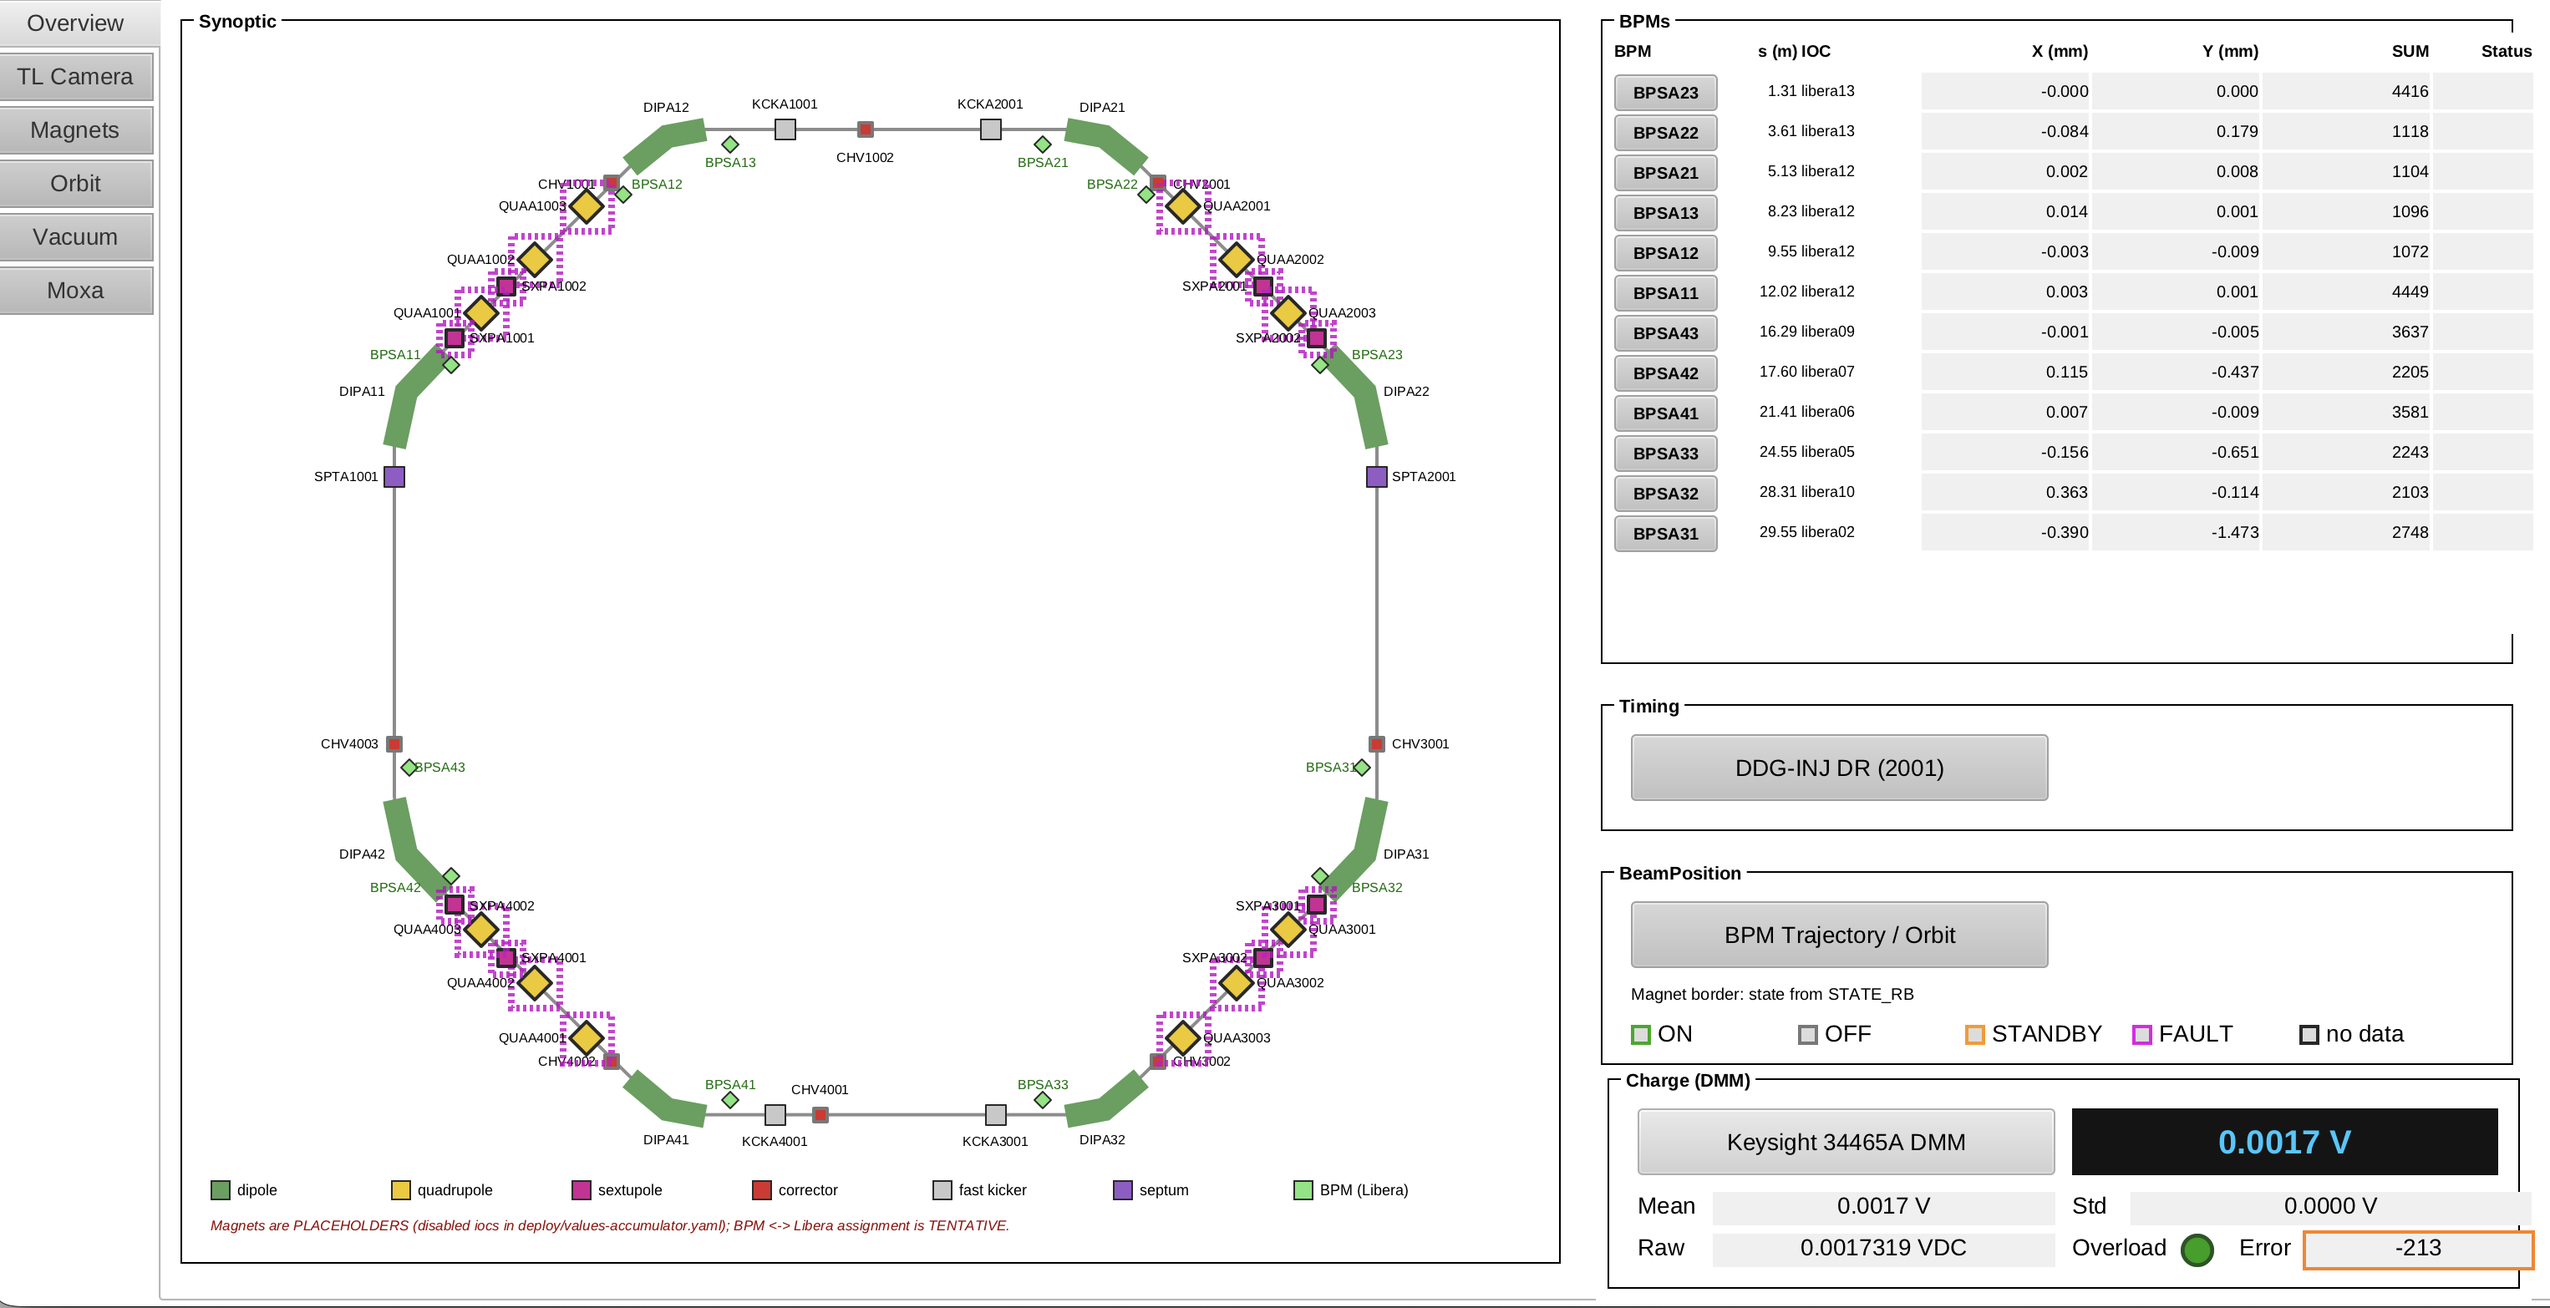
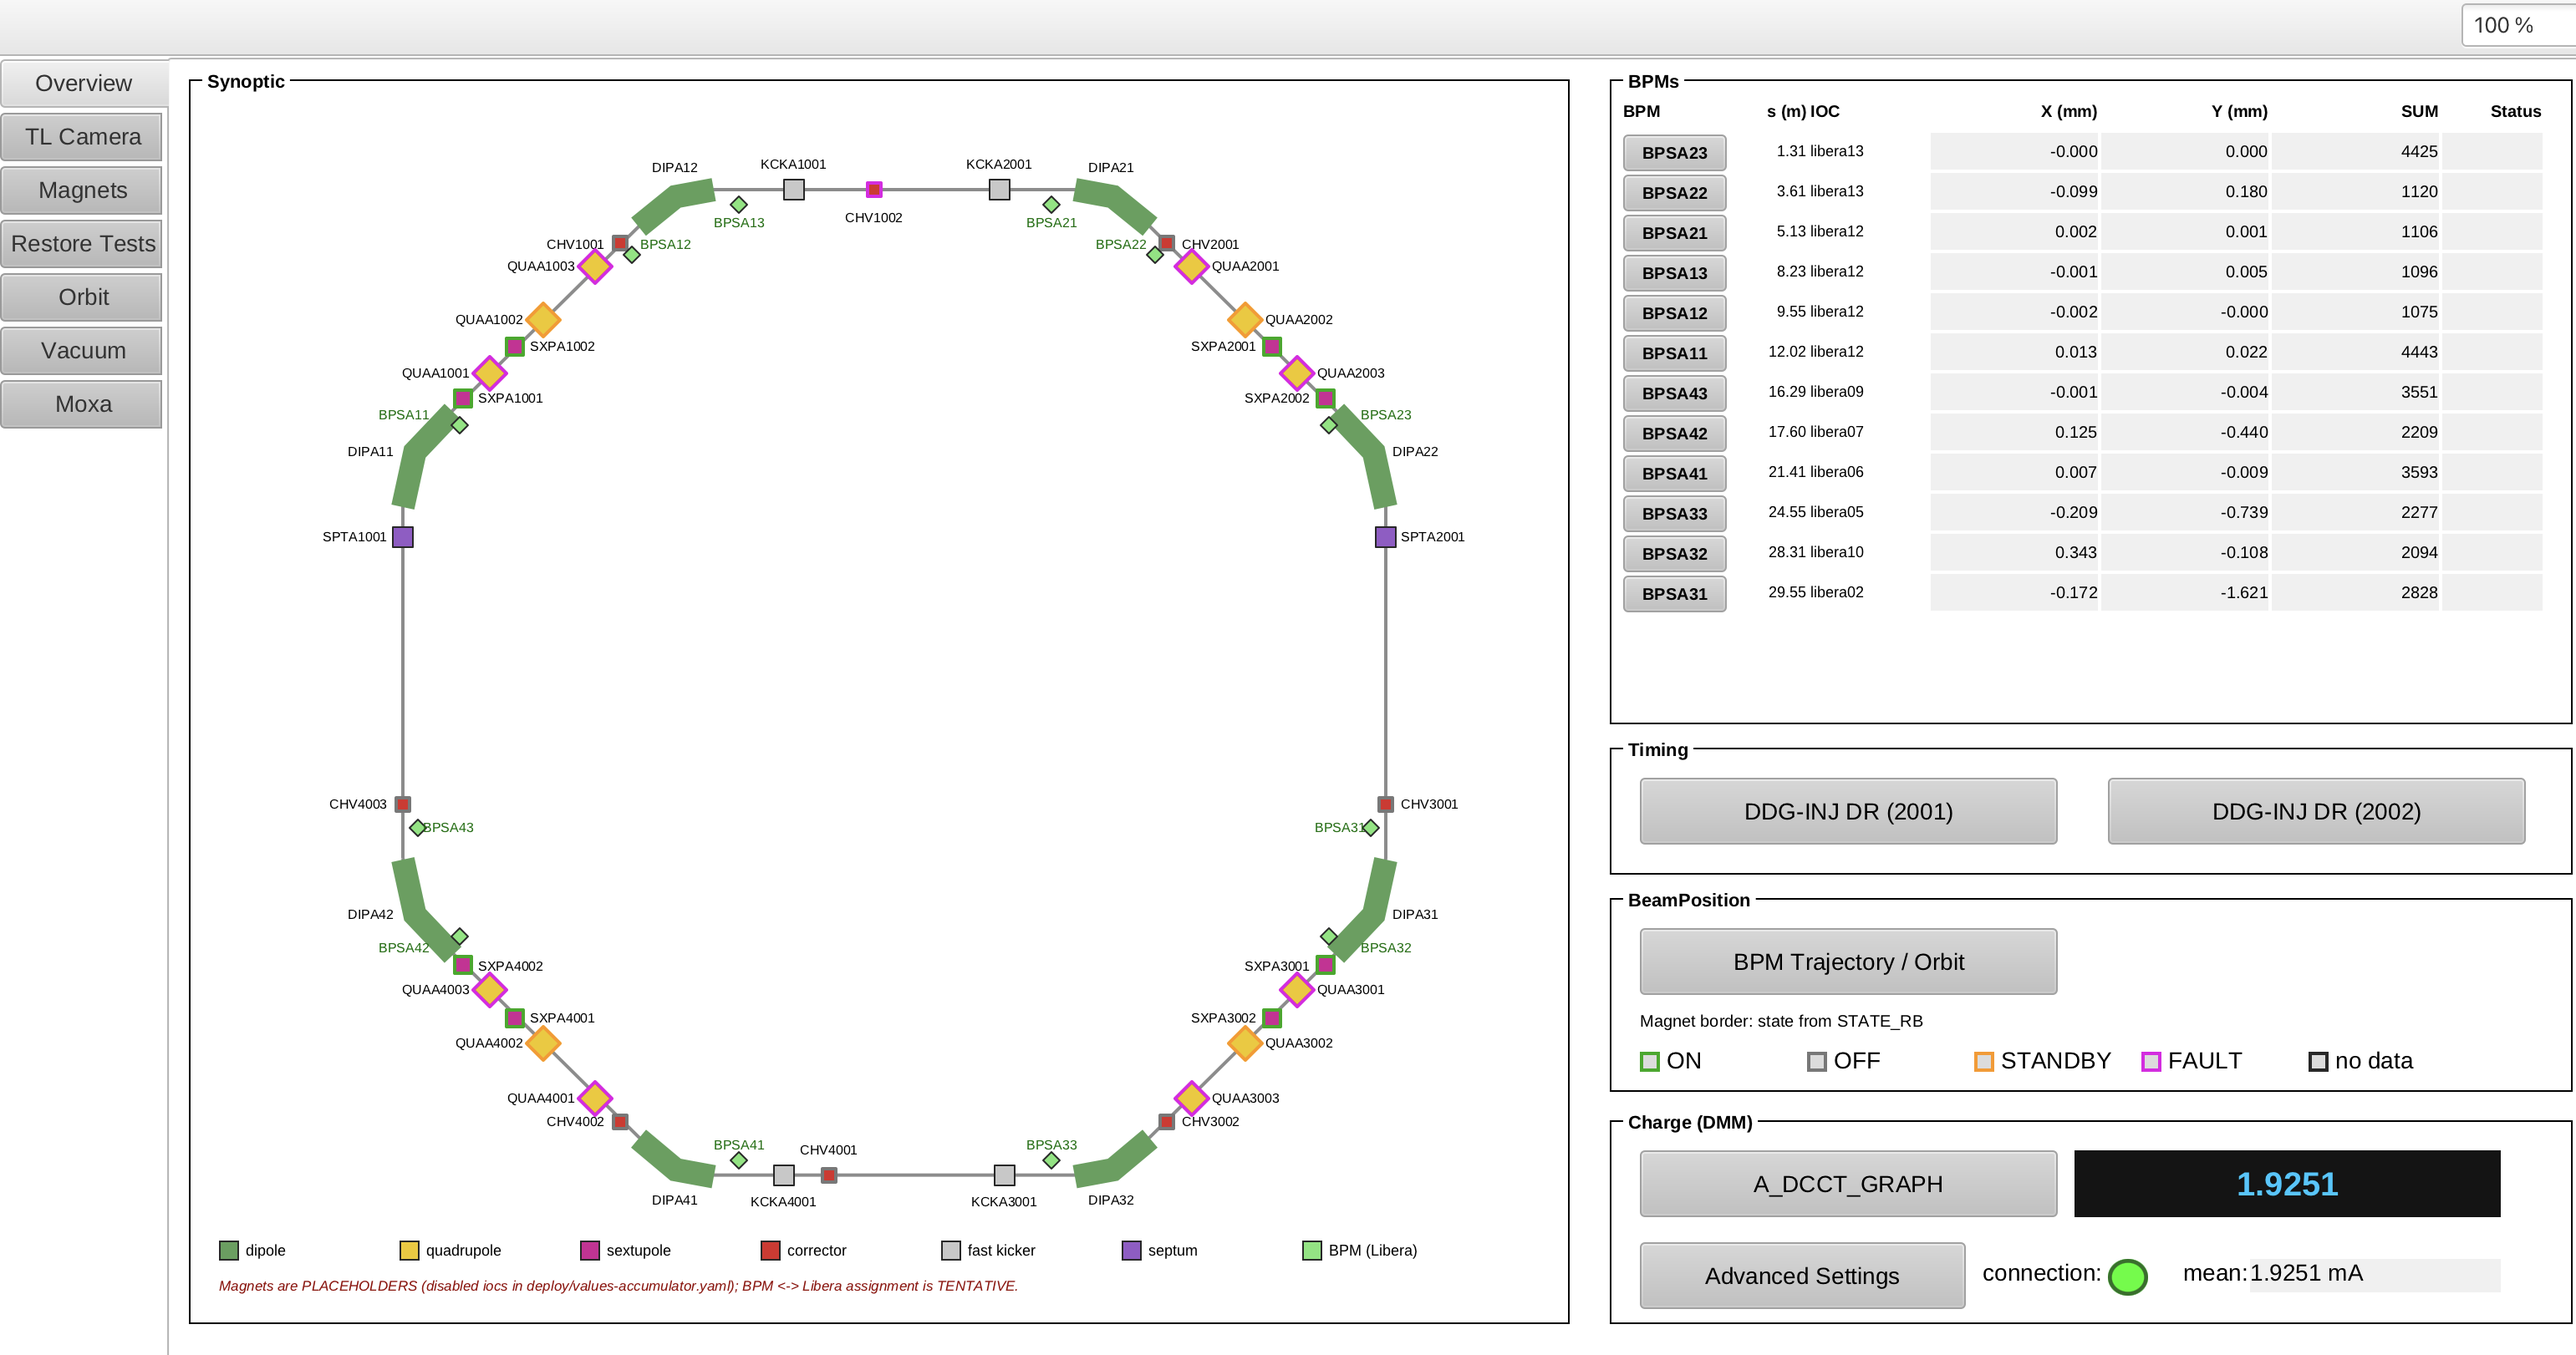
Replace DAFNE ring snapshot with REDD capture

Changed region(s): [[0.0623, 0.5211, 1.0, 1.0], [0.0, 0.0, 1.0, 0.5211], [0.8716, 0.8582, 0.9338, 0.8889]]

diff --git a/index.html b/index.html
@@ -28,7 +28,7 @@
       <div class="lnf-gallery">
         <span class="mini-label" data-i18n="lnfGalleryLabel">LNF SNAPSHOTS</span>
         <div class="lnf-gallery-grid">
-          <figure class="lnf-dafne-card"><div class="lnf-dafne-montage"><a class="lnf-dafne-overview" href="./assets/lnf-dafne-control-overview.webp" target="_blank" rel="noopener"><img src="./assets/lnf-dafne-control-overview.webp" alt="DAΦNE control interface map showing the LINAC, BTF and rings." data-i18n-alt="lnfDafneAlt" loading="lazy" width="2558" height="1362"></a><a class="lnf-dafne-ring" href="./assets/lnf-dafne-ring.png" target="_blank" rel="noopener"><img src="./assets/lnf-dafne-ring.png" alt="DAΦNE accumulator ring control synoptic with beam position monitors and machine status." data-i18n-alt="lnfDafneRingAlt" loading="lazy" width="3052" height="1566"></a></div><figcaption data-i18n="lnfDafneCaption">DAΦNE accelerator overview and ring controls.</figcaption></figure>
+          <figure class="lnf-dafne-card"><div class="lnf-dafne-montage"><a class="lnf-dafne-overview" href="./assets/lnf-dafne-control-overview.webp" target="_blank" rel="noopener"><img src="./assets/lnf-dafne-control-overview.webp" alt="DAΦNE control interface map showing the LINAC, BTF and rings." data-i18n-alt="lnfDafneAlt" loading="lazy" width="2558" height="1362"></a><a class="lnf-dafne-ring" href="./assets/lnf-dafne-ring.png?v=20261109" target="_blank" rel="noopener"><img src="./assets/lnf-dafne-ring.png?v=20261109" alt="DAΦNE accumulator ring control synoptic with beam position monitors and machine status." data-i18n-alt="lnfDafneRingAlt" loading="lazy" width="3082" height="1622"></a></div><figcaption data-i18n="lnfDafneCaption">DAΦNE accelerator overview and ring controls.</figcaption></figure>
           <figure class="lnf-sparc-card"><div class="lnf-sparc-montage"><a class="lnf-sparc-panel" href="./assets/lnf-sparc-control-panel.png" target="_blank" rel="noopener"><img src="./assets/lnf-sparc-control-panel.png" alt="SPARC_LAB control panel with RF and timing controls and machine status." data-i18n-alt="lnfSparcPanelAlt" loading="lazy" width="1352" height="700"></a><a class="lnf-sparc-synoptic" href="./assets/lnf-sparc-rf-synoptic.webp" target="_blank" rel="noopener"><img src="./assets/lnf-sparc-rf-synoptic.webp" alt="SPARC_LAB RF synoptic showing low level RF systems, klystrons and accelerating cavities." data-i18n-alt="lnfSparcAlt" loading="lazy" width="1804" height="874"></a><a class="lnf-sparc-graphs" href="./assets/lnf-sparc-rf-graphs.png" target="_blank" rel="noopener"><img src="./assets/lnf-sparc-rf-graphs.png" alt="SPARC_LAB RF monitor showing waveforms and power and phase jitter graphs." data-i18n-alt="lnfSparcGraphsAlt" loading="lazy" width="1832" height="1136"></a></div><figcaption data-i18n="lnfSparcCaption">SPARC_LAB control panel, RF synoptic and graphs.</figcaption></figure>
         </div>
         <p class="lnf-gallery-note" data-i18n="lnfGalleryNote">Screenshots are examples captured at a point in time; select an image to view it at full size.</p>

diff --git a/README.md b/README.md
@@ -36,5 +36,5 @@ Site source is Apache-2.0, matching the main `infn-epics-ioc` repository.
 The LNF control interface screenshots in `assets/lnf-*.webp` and
 `assets/lnf-sparc-*.png` and `assets/lnf-dafne-ring.png` were supplied by the site maintainer. The WebP
 versions were cropped without changing interface content; the PNGs are the
-original ring, control panel and RF graph screenshots. They show examples captured
+original ring (REDD replacement, 9 November 2026), control panel and RF graph screenshots. They show examples captured
 at a point in time, not current machine status.
